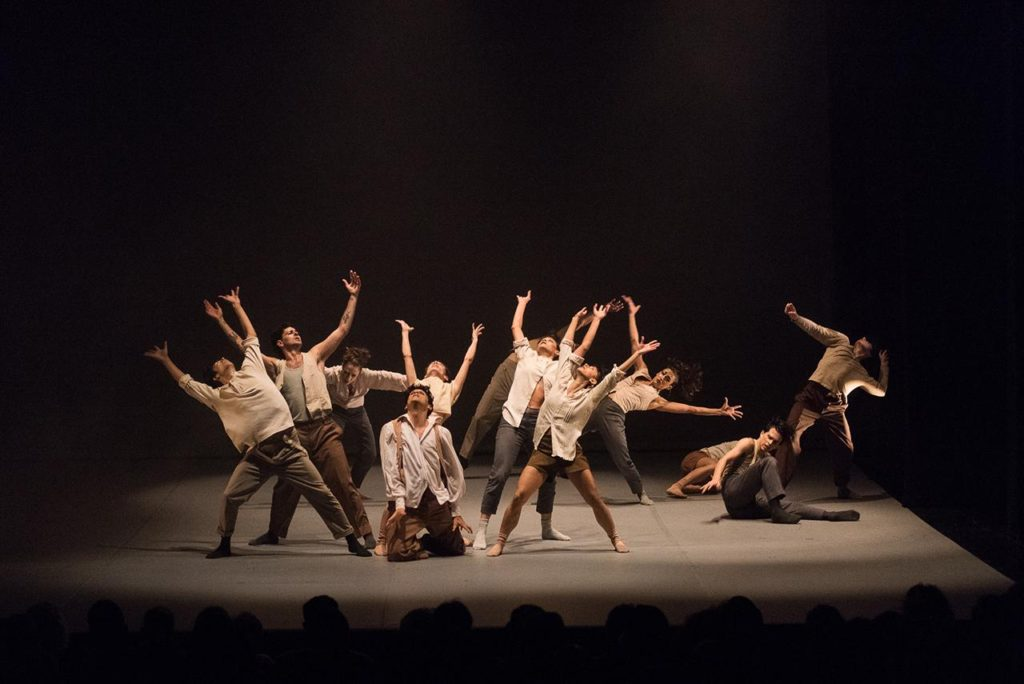
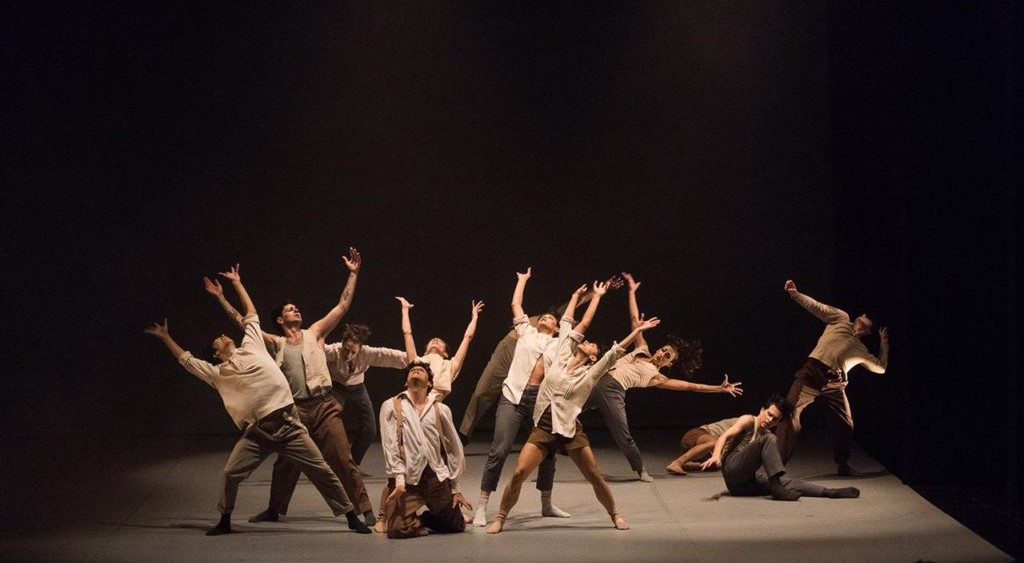
Tengo sueñito
-Edite desde el main css (creo que a todo le puse AGREGADO como coment)
-Ver si podemos en mobile poner el otro fondo, imagen separada de texto (esta descargada en data como cta2)

Problemas:
-Arreglar el tamaño del participa por una entrada o dejar solo participa
GRACIAS.HTML:
-Que aparezca el nombre en la de agradecimiento
-Agregarle un botón atrás (esta en la carpeta data)

diff --git a/gracias.html b/gracias.html
@@ -9,57 +9,77 @@
     <link rel="stylesheet" href="https://cdn.jsdelivr.net/npm/bootstrap-icons@1.11.3/font/bootstrap-icons.min.css" />
     <link href="https://fonts.googleapis.com/css2?family=Montserrat:ital,wght@0,100..900;1,100..900&display=swap"
         rel="stylesheet" />
-    <link rel="stylesheet" href="estilos.css" />
+        <link rel="stylesheet" href="scss/main.css" />
     <link rel="icon" href="data/logo-balletin.png" />
 </head>
 <body>
-    <img src="data/img10.jpg" class="fondo">
-    <p>
-        Gracias <span id='Nombre-placeholder.innerHTML="inputNombre.value"'></span> increíble
-    </p>
-    
-    <footer class="footer mt-auto">
+    <div class="card text-bg-dark">
+        <article class="col-12 ">
+              <!-- Imagen para pantallas medianas y grandes -->
+              <img src="data/img10.jpg" class="fondo card-img d-none d-md-block" alt="...">
+             
+              <!-- Imagen para pantallas pequeñas -->
+              <img src="data/img10 2.png" class="fondo card-img d-block d-md-none" alt="...">
+          
+            <div class="card-img-overlay d-flex flex-column">
+                <div class="text-start ms-lg-5">
+                    <h1 class="card-title mb-3 mt-5">Gracias!</h1>
+                    <!-- Texto para pantallas medianas y grandes -->
+                    <h6 class="card-text">
+                        !gracias <span id="Nombre-placeholder">NOMBRE</span>.<br>
+                        Tu mensaje fue enviado correctamente a <span
+                         id="Mail-placeholder">MAIL</span>.nos comunicaremos con vos 
+                    </h6>
+                    
+                </div>
+        </article>
+    </div>    
+      <footer class="footer mt-auto">
         <div class="container-fluid">
             <div class="row">
-                <div class="col-12 col-lg-6">
-                    <ul class="menu">
-                        <li class="mt-lg-4 mt-5">
-                            <p class="letras smaller">Inicio</p>
+                <div class="col-12 col-lg-8">
+                    <ul class="menu d-flex flex-wrap justify-content-center justify-content-lg-start align-items-center list-unstyled text-center text-lg-left">
+                        <li class="mt-lg-4 mt-3">
+                            <a class="small d-inline-block" href="/#Inicio">Inicio</a>
                         </li>
-                        <li class="mt-lg-4 mt-5">
-                            <p class="letras smaller">Edición digital</p>
+                        <li class="mt-lg-4 mt-3">
+                            <a class="small d-inline-block" href="/#Equipo">Equipo</a>
                         </li>
-                        <li class="mt-lg-4 mt-5">
-                            <p class="letras smaller">Capacitación docente</p>
+                        <li class="mt-lg-4 mt-3">
+                            <a class="small d-inline-block" href="/#Estilos">Estilos</a>
                         </li>
-                        <li class="mt-lg-4 mt-5">
-                            <p class="letras smaller">Tienda</p>
+                        <li class="mt-lg-4 mt-3">
+                            <a class="small d-inline-block" href="/#Cronograma">Cronograma</a>
+                        </li>
+                        <li class="mt-lg-4 mt-3">
+                            <a class="small d-inline-block" href="/#Evento">Evento</a>
                         </li>
                     </ul>
                 </div>
-                <div class="col-12 col-lg-6">
-                    <nav class="d-flex justify-content-evenly align-items-center">
-                        <a href="" target="_blank" class="mt-lg-4 mt-3 text-white"><i
+                <div class="col-12 col-lg-4">
+                    <nav class="d-flex justify-content-center justify-content-lg-end align-items-center">
+                        <a href="" target="_blank" class="mt-lg-4 mt-2 mx-4 text-white"><i
                                 class="bi bi-facebook fs-4"></i></a>
-                        <a href="" target="_blank" class="mt-lg-4 mt-2 text-white"><i class="bi bi-tiktok fs-4"></i></a>
-                        <a href="" target="_blank" class="mt-lg-4 mt-2 text-white"><i
+                        <a href="" target="_blank" class="mt-lg-4 mt-2 mx-4 text-white"><i class="bi bi-tiktok fs-4"></i></a>
+                        <a href="" target="_blank" class="mt-lg-4 mt-2 mx-4 text-white"><i
                                 class="bi bi-twitter fs-4"></i></a>
-                        <a href="" target="_blank" class="mt-lg-4 mt-2 text-white"><i
+                        <a href="" target="_blank" class="mt-lg-4 mt-2 mx-4 text-white"><i
                                 class="bi bi-instagram fs-4"></i></a>
-                        <a href="" target="_blank" class="mt-lg-4 mt-2 text-white"><i
+                        <a href="" target="_blank" class="mt-lg-4 mt-2 mx-4 text-white"><i
                                 class="bi bi-youtube fs-4"></i></a>
                     </nav>
                 </div>
             </div>
             <div class="row">
                 <div class="col-12 text-center mt-5">
-                    <small class="text-white smaller">&copy; Balletin Dance, La Revista
+                    <p class="text-white smaller">&copy; Balletin Dance, La Revista
                         Argentina de Danza - 2023 - Buenos Aires -
-                        Argentina</small>
+                        Argentina</p>
                 </div>
             </div>
         </div>
     </footer>
+    
     <script src="script.js"></script>
 </body>
 <script src="https://cdn.jsdelivr.net/npm/bootstrap@5.3.2/dist/js/bootstrap.bundle.min.js"

diff --git a/index.html b/index.html
@@ -10,7 +10,7 @@
     <link rel="stylesheet" href="https://cdn.jsdelivr.net/npm/bootstrap-icons@1.11.3/font/bootstrap-icons.min.css" />
     <link href="https://fonts.googleapis.com/css2?family=Montserrat:ital,wght@0,100..900;1,100..900&display=swap"
         rel="stylesheet" />
-    <link rel="stylesheet" href="scss/main.css" />
+   <link rel="stylesheet" href="scss/main.css" />
     <link rel="icon" href="data/logo-balletin.png" />
 </head>
 
@@ -31,7 +31,7 @@
                     <li class="nav-item"><a class="nav-link" href="#Equipo">Equipo</a></li>
                     <li class="nav-item"><a class="nav-link" href="#Estilos">Estilos</a></li>
                     <li class="nav-item"><a class="nav-link" href="#Cronograma">Cronograma</a></li>
-                    <li class="nav-item"><a class="nav-link" href="#Evento">Evento</a></li>
+                    <li class="nav-item"><a class="nav-link active" aria-current="page" href="#Evento">Evento</a></li>
                 </ul>
             </div>
             
@@ -186,7 +186,7 @@
                 </article>
             </div>
         </section>
-
+       
         <section id="Cronograma">
             <div id="carouselExampleFadeAutoplay" class="carousel slide carousel-fade my-5" data-bs-ride="carousel">
                 <div class="progress-container">
@@ -196,7 +196,9 @@
                 </div>
                 <div class="carousel-inner">
                     <div class="carousel-item active">
-                        <img src="data/cronograma1.jpg" class="d-block w-100" alt="...">
+                        <img src="data/cronograma1.jpg" class="card-img d-none d-md-block" alt="...">
+                        <img src="data/viernes.png" class="card-img d-block d-md-none" alt="...">
+
                         <div class="carousel-caption d-flex align-items-center justify-content-center">
                             <div>
                                 <h5>Cronograma</h5>
@@ -208,7 +210,8 @@
                         </div>
                     </div>
                     <div class="carousel-item">
-                        <img src="data/cronograma2.jpg" class="d-block w-100" alt="...">
+                        <img src="data/cronograma2.jpg" class="card-img d-none d-md-block" alt="...">
+                        <img src="data/sabado.png" class="card-img d-block d-md-none" alt="...">
                         <div class="carousel-caption d-flex align-items-center justify-content-center">
                             <div>
                                 <h5>Cronograma</h5>
@@ -220,8 +223,9 @@
                         </div>
                     </div>
                     <div class="carousel-item">
-                        <img src="data/cronograma3.png" class="d-block w-100" alt="...">
-                        <div class="carousel-caption d-flex align-items-center justify-content-center">
+                        <img src="data/cronograma3.png" class="card-img d-none d-md-block" alt="...">
+                        <img src="data/domingo.png" class="card-img d-block d-md-none" alt="...">
+                        <div class="carousel-caption d-flex justify-content-center">
                             <div>
                                 <h5>Cronograma</h5>
                                 <h2>DOMINGO 9</h2>
@@ -250,10 +254,10 @@
         <section class="d-flex flex-column flex-md-row col-12" id="form">
             <img src="data/cta.png" class="col-12 col-md-6">
             <div class="col-12 col-md-1"></div>
-            <form class="form col-12 col-md-4">
+            <form class="form col-10 col-md-4">
                 <input class="rellenando my-3" type="text" name="Nombre" id="Nombre" placeholder="Nombre completo" required>
                 <input class="rellenando mt-3 mb-5" type="email" name="Mail" id="Mail" placeholder="Email o correo electrónico" required>
-                <input class="btn-primary my-5" type="submit" id="enviar" value="Participa por una entrada" data-bs-toggle="modal" data-bs-target="#exampleModal">
+                <input class="btn-primary" type="submit" id="enviar" value="Participa por una entrada" data-bs-toggle="modal" data-bs-target="#exampleModal">
                 <br>
                 <div class="resultado"></div>
             </form>
@@ -271,7 +275,7 @@
                         <h1 class="apuradanza fs-5" id="exampleModalLabel">A pura danza por 3 días</h1>
                         <button type="button" class="btn-close" data-bs-dismiss="modal" aria-label="Close"></button>
                     </div>
-                    <div class="modal-body ">
+                    <div class="modal-body">
                         <input class="rellenando my-3" type="text" name="Nombre" id="Nombre"
                             placeholder="Nombre completo" required>
                         <input class="rellenando mt-3 mb-5" type="email" name="Mail" id="Mail"

diff --git a/script.js b/script.js
@@ -38,6 +38,7 @@ const input_Nombre = document.getElementById("Nombre");
 const input_Mail = document.getElementById("Mail");
 const input_submit = document.getElementById("enviar");
 const input_obtener = document.getElementById("obtener");
+
 console.log(input_Nombre);
 console.log(input_submit);
 //
@@ -45,6 +46,21 @@ input_submit.addEventListener("click", enviarformulario);
 input_obtener.addEventListener("click", guardardatos);
 function enviarformulario(event) {
     event.preventDefault();
+    var valor_Nombre = input_Nombre.value.trim();
+    var valor_Mail = input_Mail.value.trim();
+    // Detener la ejecución de la función si algún campo está vacío
+    if (valor_Nombre === '' || valor_Mail === '' ) {
+        alert('Por favor, completa todos los campos del formulario para participar del evento!');
+        return false; 
+    }
+    
+    //PLACEHOLDER
+    var placeholder_Nombre = document.getElementById("Nombre-placeholder");
+    var placeholder_Mail = document.getElementById("Mail-placeholder");
+
+
+    placeholder_Nombre.innerHTML = valor_Nombre;
+    placeholder_Mail.innerHTML = valor_Mail;
     //mostrar con enviar
     modal_Nombre.value = input_Nombre.value;
     modal_Mail.value = input_Mail.value;

diff --git a/scss/main.css b/scss/main.css
@@ -73,7 +73,6 @@ h5 {
 
 .form-select {
   background-color: #CDCDCD;
-  color: #3E3E3E;
 }
 
 footer {
@@ -187,6 +186,26 @@ h6 {
   }
   .navbar-nav .nav-link:hover {
     color: black; /* Color del enlace en estado hover */
+  } 
+  /*AGREDADO*/
+  .form{
+    align-self: center;   /*AGREDADO*/
+    display: flex;   /*AGREDADO*/
+    flex-direction: column;   /*AGREDADO*/
+    border-radius: 30px;   /*AGREDADO*/
+    padding: 20px;   /*AGREDADO*/
+    max-width: 500px;    /*AGREDADO*/
+    width: 90%;    /*AGREDADO*/
+    margin: auto;   /*AGREDADO*/
+
+  }
+  .form .btn-primary{ 
+     font-size:larger; /*AGREDADO*/
+  }
+  .fondo {
+    align-items: center; /* AGREGADO */
+    width: auto; /* AGREGADO */
+    height: 100%;
   }
 }
 .navbar {
@@ -223,6 +242,7 @@ h6 {
 
 .btn-primary {
   border-radius: 0;
+  color: #FBF0F0;  /* AGREGADO */
   padding: 5px 40px;
 }
 
@@ -330,6 +350,7 @@ h6 {
   width: 100%;
   height: auto;
   margin: 0;
+  filter: brightness(0.5); /* AGREGADO */
 }
 
 footer {

diff --git a/scss/_commons.scss b/scss/_commons.scss
@@ -54,6 +54,7 @@ h5 {
     border-color: map-get($map: $paleta, $key: rojo);
 }
 
+
 .btn-primary:hover {
     background-color: map-get($map: $paleta, $key: rojoHover);
     border-color: map-get($map: $paleta, $key: rojoHover);
@@ -89,8 +90,9 @@ h5 {
 .form-select {
     background-color: map-get($map: $paleta, $key: form);
     color: map-get($map: $paleta, $key: txtForm);
-
+    
 }
+
 
 footer {
     background-color: map-get($map: $paleta, $key: bgFooter);

diff --git a/scss/_pag.scss b/scss/_pag.scss
@@ -25,9 +25,15 @@
     .navbar-nav .nav-link:hover {
       color: black; /* Color del enlace en estado hover */
     }
+   
+    .carousel-item .carousel-caption{
+        align-items: start;
+    }
   }
   
-
+  .carousel-caption{
+    align-items: center;
+}
 .navbar {
     padding: 5px 2%;
 }
@@ -163,7 +169,6 @@
     display: flex;
     justify-content: center;
     flex-direction: column;
-    
 }
 
 .rellenando{
